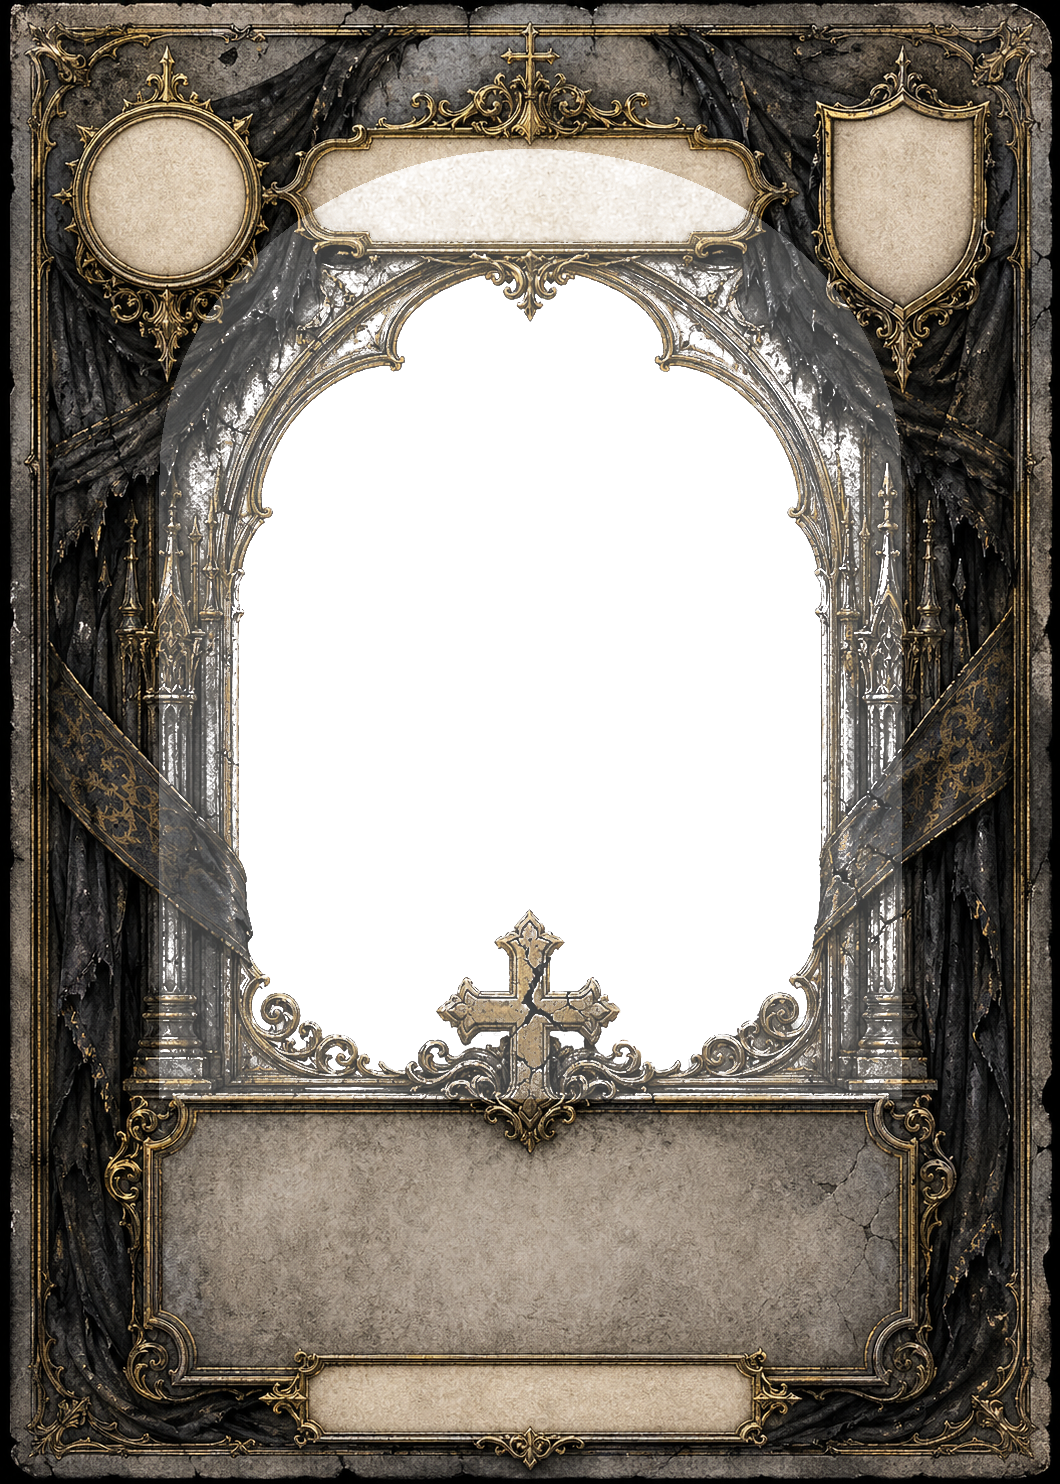
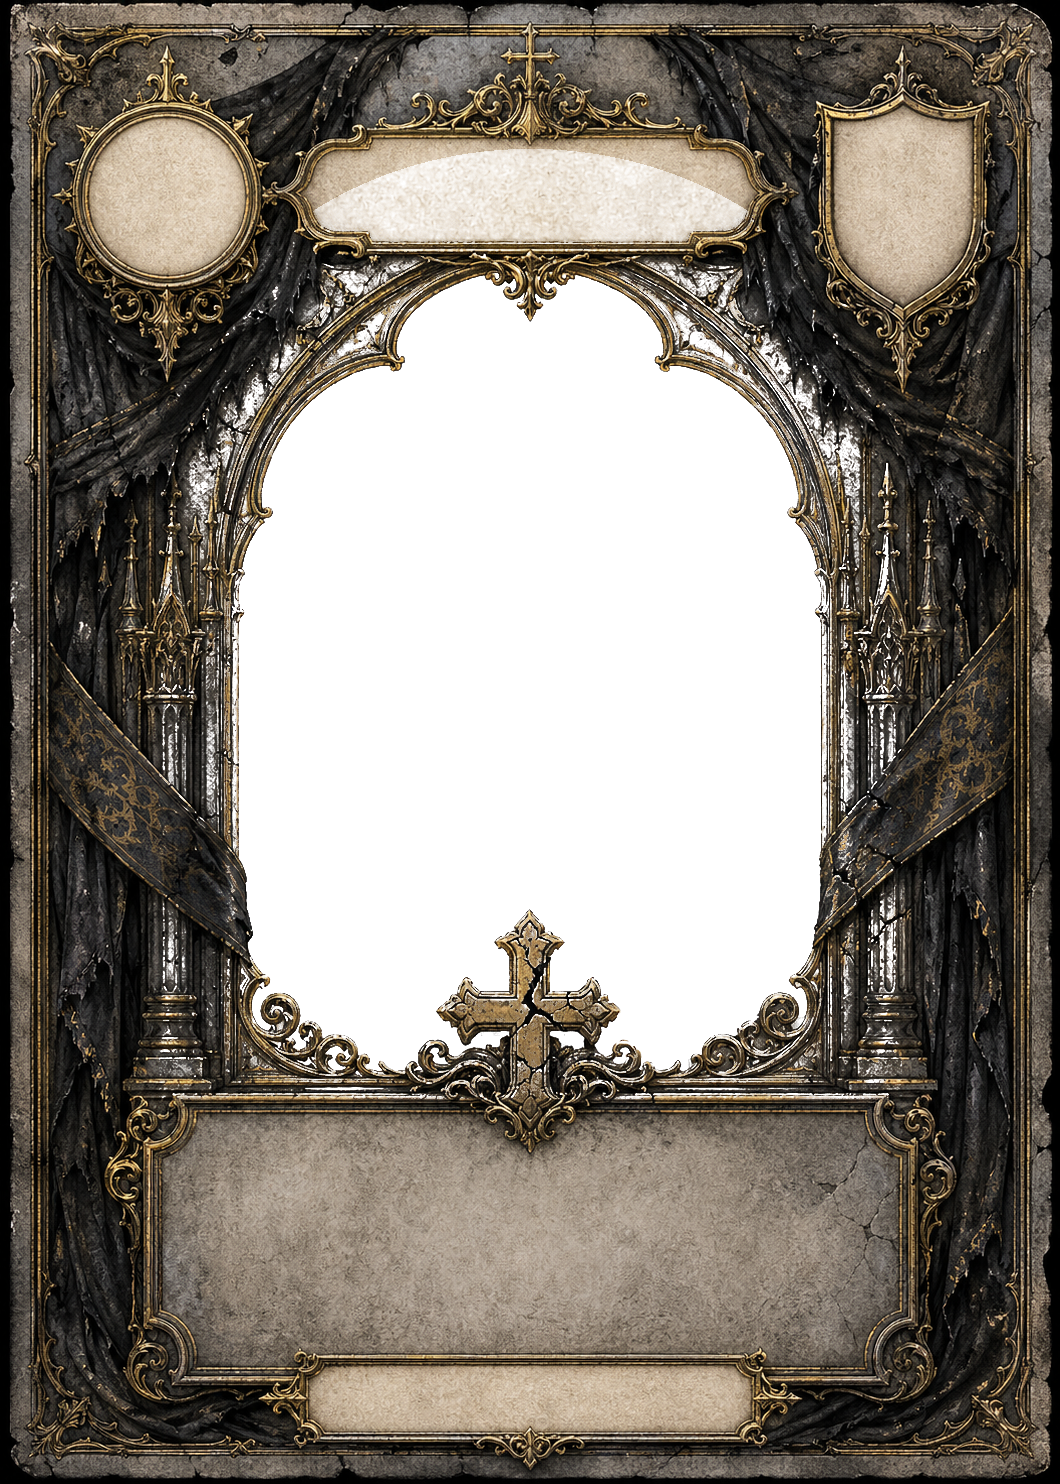
Templates : courbe alpha non-shiftée, ornements de l'arche opaques
Bug : ALPHA_SHIFT=60 rendait les ornements (serpents, dorures) à alpha=195

donc l'illustration transparaissait par-dessus. Nouvelle courbe :

alpha = clip((ornament_strength - 0.2) * 320, 0, 255) — qui atteint 255

pour les ornements (strength=1) et 0 pour le parchemin pur.

https://claude.ai/code/session_011baaC7zEExbd5eSjuzVu4k

Changed region(s): [[0.1245, 0.124, 0.8717, 0.7439]]

diff --git a/tools/extract_arch_alpha.py b/tools/extract_arch_alpha.py
@@ -51,11 +51,7 @@ def process(in_path: str, out_path: str) -> None:
     in_bot = (fy > ARCH_CY) & (fy <= ARCH_BOTTOM) & (np.abs(fx - ARCH_CX) <= ARCH_RX)
     in_arch = in_top | in_bot
 
-    alpha = np.where(
-        in_arch,
-        np.clip(255 * ornament_strength, 0, 255),
-        255,
-    ).astype(np.uint8)
+    alpha = np.where(in_arch, np.clip((ornament_strength - 0.2) * 320, 0, 255), 255).astype(np.uint8)
     arr[:, :, 3] = alpha
     Image.fromarray(np.clip(arr, 0, 255).astype(np.uint8), mode="RGBA").save(
         out_path, optimize=True
